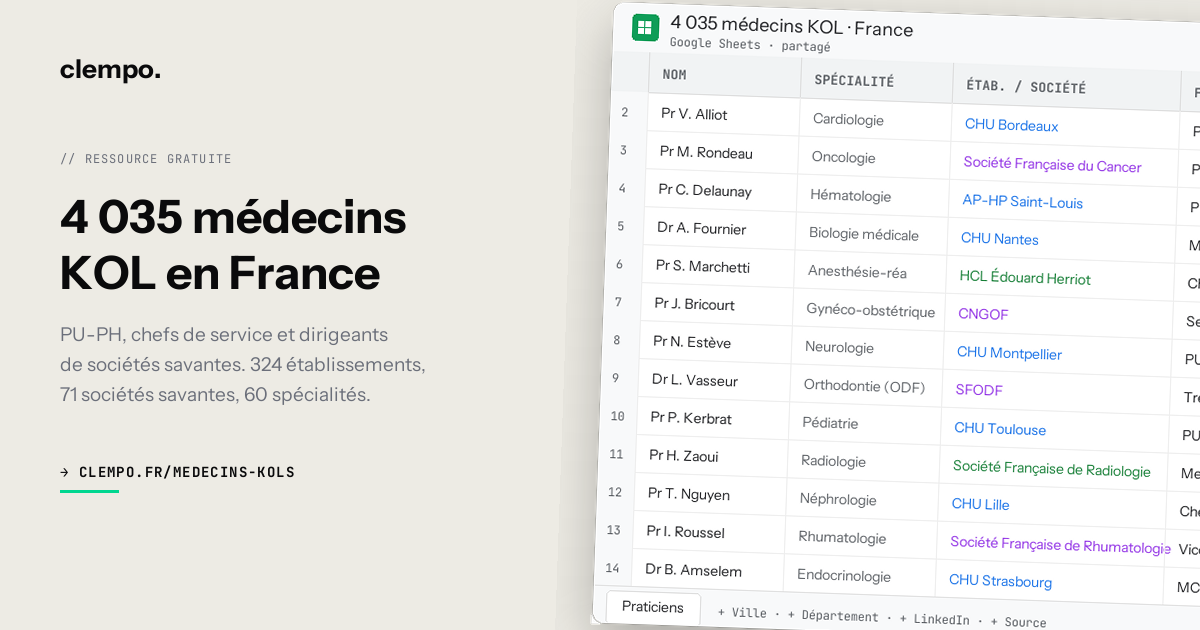
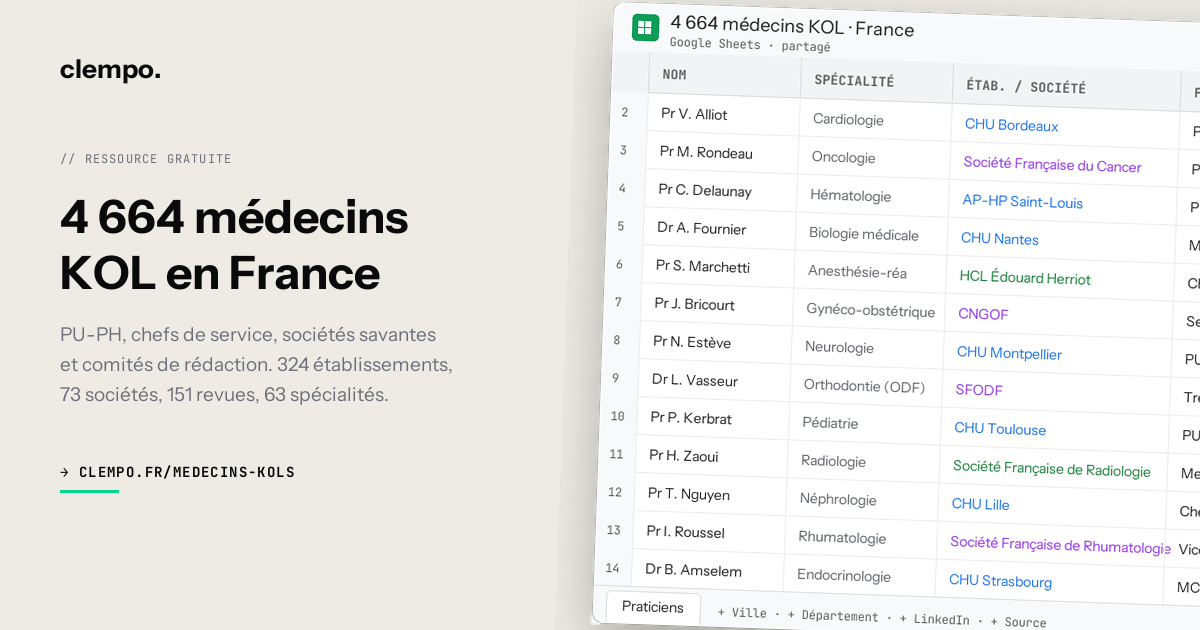
feat(medecins-kols): 3e source, les comités de rédaction des revues médicales
La base passe de 4 035 à 4 664 praticiens : 769 membres de comités de
rédaction relevés sur 151 revues (EM-Consulte, John Libbey Eurotext), dont
140 déjà présents et enrichis sur leur ligne existante.

- nouvelle colonne « Revue médicale » dans le Sheet, reflétée dans la page
- « profils doubles » devient « profils multi-sources » : 365 praticiens
  dans au moins deux sources, 19 dans les trois
- chiffres recalculés depuis le Sheet : 73 sociétés, 151 revues,
  63 spécialités, 3 475 LinkedIn (75 %), top 10 des spécialités
- le compte du titre de l'aperçu Sheet vient désormais de la constante
- visuels LinkedIn et OG régénérés

diff --git a/src/pages/MedecinsKols.tsx b/src/pages/MedecinsKols.tsx
@@ -1,5 +1,5 @@
 import { Link } from 'react-router-dom'
-import { Linkedin, Building2, MapPin, Stethoscope, Landmark, BadgeCheck, Layers, GitMerge } from 'lucide-react'
+import { Linkedin, Building2, MapPin, Stethoscope, Landmark, BadgeCheck, Layers, GitMerge, BookOpen } from 'lucide-react'
 import SEO from '../components/SEO'
 import MedecinsKolsForm, { MedecinsKolsNetlifyRegistration } from '../components/MedecinsKolsForm'
 import MedecinsKolsSheetPreview from '../components/MedecinsKolsSheetPreview'
@@ -9,11 +9,15 @@ import {
   MEDECINS_KOLS_COUNT,
   MEDECINS_KOLS_CHU,
   MEDECINS_KOLS_SAVANTES,
-  MEDECINS_KOLS_DOUBLES,
+  MEDECINS_KOLS_REVUES_MEMBRES,
+  MEDECINS_KOLS_MULTI,
+  MEDECINS_KOLS_TRIPLES,
   MEDECINS_KOLS_ETABS,
   MEDECINS_KOLS_SOCIETES,
+  MEDECINS_KOLS_REVUES,
   MEDECINS_KOLS_SPECIALITES,
   MEDECINS_KOLS_LINKEDIN,
+  MEDECINS_KOLS_LINKEDIN_PCT,
 } from '../lib/medecins-kols'
 import { bookingUrl } from '../lib/cta'
 
@@ -28,13 +32,13 @@ const SRC = 'medecins-kols'
 
 const fr = (n: number) => n.toLocaleString('fr-FR')
 
-const TITLE = `${fr(MEDECINS_KOLS_COUNT)} KOL santé · PU-PH, chefs de service & sociétés savantes | Clempo`
-const META = `Base de ${fr(MEDECINS_KOLS_COUNT)} médecins KOL français : PU-PH, MCU-PH, chefs de service de ${fr(MEDECINS_KOLS_ETABS)} établissements et dirigeants de ${MEDECINS_KOLS_SOCIETES} sociétés savantes. Spécialité, établissement, fonction et LinkedIn. Téléchargement gratuit.`
+const TITLE = `${fr(MEDECINS_KOLS_COUNT)} KOL santé · PU-PH, sociétés savantes & revues médicales | Clempo`
+const META = `Base de ${fr(MEDECINS_KOLS_COUNT)} médecins KOL français : PU-PH, MCU-PH, chefs de service de ${fr(MEDECINS_KOLS_ETABS)} établissements, dirigeants de ${MEDECINS_KOLS_SOCIETES} sociétés savantes et comités de rédaction de ${MEDECINS_KOLS_REVUES} revues médicales. Spécialité, établissement, fonction et LinkedIn. Téléchargement gratuit.`
 
 const JSON_LD = {
   '@context': 'https://schema.org',
   '@type': 'Dataset',
-  'name': 'Médecins KOL (leaders d’opinion) — CHU & sociétés savantes, France',
+  'name': 'Médecins KOL (leaders d’opinion) — CHU, sociétés savantes & revues médicales, France',
   'description': META,
   'creator': {
     '@type': 'Person',
@@ -48,6 +52,7 @@ const JSON_LD = {
     'PU-PH',
     'chefs de service CHU',
     'sociétés savantes',
+    'comité de rédaction revue médicale',
     'advisory board médical',
   ],
   'spatialCoverage': { '@type': 'Country', 'name': 'France' },
@@ -60,27 +65,29 @@ const JSON_LD = {
   },
   'variableMeasured': [
     'Titre', 'Nom', 'Prénom', 'Spécialité médicale', 'Service / intitulé d\'origine',
-    'Établissement', 'Société savante', 'Fonction', 'Ville', 'Département', 'Lien LinkedIn', 'Sources',
+    'Établissement', 'Société savante', 'Revue médicale', 'Fonction', 'Ville', 'Département',
+    'Lien LinkedIn', 'Sources',
   ],
 }
 
-/** Top spécialités du fichier (nomenclature DES, 60 spécialités au total). */
+/** Top spécialités du fichier (nomenclature DES, 63 spécialités au total). */
 const SPECIALITES = [
-  { label: 'Biologie médicale', count: 298 },
-  { label: 'Hématologie', count: 186 },
-  { label: 'Cardiologie', count: 178 },
-  { label: 'Gynécologie-obstétrique', count: 163 },
-  { label: 'Pédiatrie', count: 161 },
+  { label: 'Biologie médicale', count: 305 },
+  { label: 'Hématologie', count: 203 },
+  { label: 'Cardiologie', count: 188 },
+  { label: 'Radiologie et imagerie médicale', count: 178 },
+  { label: 'Oncologie', count: 176 },
+  { label: 'Pédiatrie', count: 171 },
+  { label: 'Gynécologie-obstétrique', count: 169 },
+  { label: 'Maladies infectieuses et tropicales', count: 161 },
+  { label: 'Endocrinologie-diabétologie-nutrition', count: 157 },
   { label: 'Chirurgie viscérale et digestive', count: 154 },
-  { label: 'Endocrinologie-diabétologie-nutrition', count: 135 },
-  { label: 'Anesthésie-réanimation', count: 134 },
-  { label: 'Radiologie et imagerie médicale', count: 134 },
-  { label: 'Oncologie', count: 125 },
 ]
 
 const FONCTIONS = [
   'PU-PH', 'MCU-PH', 'Chef de service', 'Chef de pôle', 'Président',
-  'Vice-Président', 'Secrétaire Général', 'Trésorier', 'Membre du CA', 'Référent',
+  'Vice-Président', 'Secrétaire Général', 'Trésorier', 'Membre du CA',
+  'Rédacteur en chef', 'Comité de rédaction',
 ]
 
 const USECASES = [
@@ -97,6 +104,10 @@ const USECASES = [
     text: `Les ${MEDECINS_KOLS_SOCIETES} sociétés savantes couvertes sont celles qui organisent les congrès de spécialité. Vous savez à qui parler du programme scientifique avant que le call for papers ne sorte.`,
   },
   {
+    title: 'Viser les comités de rédaction',
+    text: `Les membres des comités de ${MEDECINS_KOLS_REVUES} revues médicales décident de ce qui se publie dans leur spécialité. C'est le levier le plus direct pour faire exister une donnée clinique auprès des prescripteurs.`,
+  },
+  {
     title: 'Recruter des investigateurs',
     text: "Filtrez par département et par service pour cibler les centres capables de porter votre étude clinique — le chef de service est nommé, avec son intitulé de service d'origine.",
   },
@@ -105,11 +116,11 @@ const USECASES = [
 const FAQ = [
   {
     q: "D'où viennent ces données ?",
-    a: "Deux sources publiques, fusionnées et dédoublonnées : l'annuaire de la Fédération Hospitalière de France (relevé en août 2026) pour les PU-PH, MCU-PH et chefs de service des CHU et CLCC ; les pages « bureau » et « conseil d'administration » des sites officiels des sociétés savantes pour leurs dirigeants.",
+    a: `Trois sources publiques, fusionnées et dédoublonnées : l'annuaire de la Fédération Hospitalière de France (relevé en août 2026) pour les PU-PH, MCU-PH et chefs de service des CHU et CLCC ; les pages « bureau » et « conseil d'administration » des sites officiels des ${MEDECINS_KOLS_SOCIETES} sociétés savantes ; les ours des ${MEDECINS_KOLS_REVUES} revues médicales françaises qui publient leur comité de rédaction, pour leurs rédacteurs en chef et membres de comité.`,
   },
   {
-    q: "Que veut dire « profil double » ?",
-    a: `${fr(MEDECINS_KOLS_DOUBLES)} praticiens sont à la fois hospitalo-universitaires et dirigeants d'une société savante. Ce sont statistiquement les profils les plus influents du fichier. Ils apparaissent sur une seule ligne, avec les deux colonnes remplies — filtrez la colonne « Sources » sur « CHU + Société savante » pour les isoler.`,
+    q: "Que veut dire « profil multi-sources » ?",
+    a: `${fr(MEDECINS_KOLS_MULTI)} praticiens apparaissent dans au moins deux des trois sources, et ${MEDECINS_KOLS_TRIPLES} dans les trois à la fois : hospitalo-universitaire, dirigeant d'une société savante et membre d'un comité de rédaction. Ce sont statistiquement les profils les plus influents du fichier. Ils occupent une seule ligne, toutes colonnes remplies — filtrez la colonne « Sources » sur celles qui contiennent un « + » pour les isoler.`,
   },
   {
     q: "Est-ce que la couverture est exhaustive ?",
@@ -121,11 +132,11 @@ const FAQ = [
   },
   {
     q: "Y a-t-il des emails ?",
-    a: `Non — volontairement. Le fichier donne le nom, la spécialité, l'établissement, la fonction et le profil LinkedIn (${fr(MEDECINS_KOLS_LINKEDIN)} profils rattachés, soit 76 % des lignes). L'approche d'un leader d'opinion se fait par LinkedIn, par un congrès ou par une introduction, pas par une adresse trouvée dans un fichier.`,
+    a: `Non — volontairement. Le fichier donne le nom, la spécialité, l'établissement, la fonction et le profil LinkedIn (${fr(MEDECINS_KOLS_LINKEDIN)} profils rattachés, soit ${MEDECINS_KOLS_LINKEDIN_PCT} % des lignes). L'approche d'un leader d'opinion se fait par LinkedIn, par un congrès ou par une introduction, pas par une adresse trouvée dans un fichier.`,
   },
   {
     q: "Quel format est livré ?",
-    a: `Un Google Sheet partagé en lecture (${fr(MEDECINS_KOLS_COUNT)} lignes, 12 colonnes, un onglet couverture et un onglet base). Dupliquez-le dans votre Drive pour le filtrer librement, ou exportez-le en CSV/XLSX.`,
+    a: `Un Google Sheet partagé en lecture (${fr(MEDECINS_KOLS_COUNT)} lignes, 13 colonnes, un onglet couverture et un onglet base). Dupliquez-le dans votre Drive pour le filtrer librement, ou exportez-le en CSV/XLSX.`,
   },
   {
     q: "Pourquoi gratuit ?",
@@ -182,7 +193,7 @@ export default function MedecinsKols() {
                   color: 'rgba(255,255,255,0.7)',
                   padding: '0.35rem 0',
                 }}>
-                  France 🇫🇷 · {fr(MEDECINS_KOLS_ETABS)} établissements · {MEDECINS_KOLS_SOCIETES} sociétés savantes
+                  France 🇫🇷 · {fr(MEDECINS_KOLS_ETABS)} établissements · {MEDECINS_KOLS_SOCIETES} sociétés savantes · {MEDECINS_KOLS_REVUES} revues
                 </span>
               </div>
 
@@ -230,12 +241,13 @@ export default function MedecinsKols() {
               gap: '1.5rem',
             }}>
               {[
-                { n: fr(MEDECINS_KOLS_COUNT), l: 'Médecins KOL', sub: 'PU-PH, chefs de service, dirigeants de sociétés savantes' },
+                { n: fr(MEDECINS_KOLS_COUNT), l: 'Médecins KOL', sub: 'PU-PH, chefs de service, sociétés savantes, comités de rédaction' },
                 { n: fr(MEDECINS_KOLS_CHU), l: 'Hospitalo-universitaires', sub: `CHU et CLCC — ${fr(MEDECINS_KOLS_ETABS)} établissements` },
                 { n: fr(MEDECINS_KOLS_SAVANTES), l: 'Dirigeants de société savante', sub: `${MEDECINS_KOLS_SOCIETES} sociétés couvertes` },
-                { n: fr(MEDECINS_KOLS_DOUBLES), l: 'Profils doubles', sub: 'CHU et société savante à la fois' },
+                { n: fr(MEDECINS_KOLS_REVUES_MEMBRES), l: 'Comités de rédaction', sub: `${MEDECINS_KOLS_REVUES} revues médicales` },
+                { n: fr(MEDECINS_KOLS_MULTI), l: 'Profils multi-sources', sub: `Dont ${MEDECINS_KOLS_TRIPLES} présents dans les trois` },
                 { n: String(MEDECINS_KOLS_SPECIALITES), l: 'Spécialités', sub: 'Nomenclature DES + odontologie' },
-                { n: fr(MEDECINS_KOLS_LINKEDIN), l: 'Profils LinkedIn', sub: '76 % des lignes' },
+                { n: fr(MEDECINS_KOLS_LINKEDIN), l: 'Profils LinkedIn', sub: `${MEDECINS_KOLS_LINKEDIN_PCT} % des lignes` },
               ].map((s, i) => (
                 <div key={i}>
                   <p style={{
@@ -259,7 +271,7 @@ export default function MedecinsKols() {
         {/* ── COLONNES DISPONIBLES ── */}
         <section style={{ padding: 'clamp(4rem, 7vw, 6rem) 4vw', maxWidth: '1180px', margin: '0 auto' }}>
           <p style={{ fontFamily: "'JetBrains Mono', monospace", fontSize: '0.72rem', letterSpacing: '0.1em', textTransform: 'uppercase', color: SIGNAL, marginBottom: '1rem', fontWeight: 500 }}>
-            // 12 colonnes par ligne
+            // 13 colonnes par ligne
           </p>
           <h2 style={{
             fontFamily: 'var(--font-serif)',
@@ -281,7 +293,8 @@ export default function MedecinsKols() {
               { icon: Layers,      t: "Service d'origine",     s: "L'intitulé brut du service, plus fin que la spécialité" },
               { icon: Building2,   t: 'Établissement',         s: `CHU, CHRU, CLCC — ${fr(MEDECINS_KOLS_ETABS)} établissements nommés` },
               { icon: Landmark,    t: 'Société savante',       s: `${MEDECINS_KOLS_SOCIETES} sociétés, collèges et académies` },
-              { icon: BadgeCheck,  t: 'Fonction',              s: 'PU-PH, MCU-PH, chef de service, président, membre du CA…' },
+              { icon: BookOpen,    t: 'Revue médicale',        s: `${MEDECINS_KOLS_REVUES} revues — rédacteurs en chef et comités` },
+              { icon: BadgeCheck,  t: 'Fonction',              s: 'PU-PH, MCU-PH, chef de service, président, rédacteur en chef…' },
               { icon: MapPin,      t: 'Ville et département',  s: 'Pour cibler un territoire ou un centre investigateur' },
               { icon: Linkedin,    t: 'Profil LinkedIn',       s: `${fr(MEDECINS_KOLS_LINKEDIN)} URL vérifiées sur le nom de famille` },
             ].map((c, i) => {
@@ -333,7 +346,7 @@ export default function MedecinsKols() {
                   ))}
                 </ul>
                 <p style={{ marginTop: '1.25rem', fontSize: '0.85rem', color: MUTED, lineHeight: 1.6 }}>
-                  Et 50 autres, dont les six sous-spécialités odontologiques (ODF, endodontie,
+                  Et {MEDECINS_KOLS_SPECIALITES - SPECIALITES.length} autres, dont les six sous-spécialités odontologiques (ODF, endodontie,
                   parodontologie, chirurgie orale, odontologie pédiatrique, médecine bucco-dentaire).
                 </p>
               </div>
@@ -355,8 +368,8 @@ export default function MedecinsKols() {
                   ))}
                 </div>
                 <p style={{ marginTop: '1.5rem', fontSize: '0.85rem', color: MUTED, lineHeight: 1.6 }}>
-                  300+ libellés au total : un PU-PH qui dirige aussi un pôle et siège au bureau
-                  d'une société savante porte les trois mentions sur la même ligne.
+                  300+ libellés au total : un PU-PH qui dirige aussi un pôle, siège au bureau d'une
+                  société savante et signe l'édito d'une revue porte toutes ces mentions sur la même ligne.
                 </p>
 
                 <div style={{
@@ -369,11 +382,13 @@ export default function MedecinsKols() {
                 }}>
                   <GitMerge size={20} color={SIGNAL} strokeWidth={1.7} />
                   <p style={{ fontFamily: "'Inter', sans-serif", fontSize: '1rem', fontWeight: 600, color: TEXT, margin: 0 }}>
-                    {fr(MEDECINS_KOLS_DOUBLES)} profils à double casquette
+                    {fr(MEDECINS_KOLS_MULTI)} profils multi-sources
                   </p>
                   <p style={{ fontSize: '0.88rem', color: MUTED, margin: 0, lineHeight: 1.6 }}>
-                    Hospitalo-universitaires <em>et</em> dirigeants d'une société savante. Une seule
-                    ligne, les deux colonnes remplies. C'est par eux qu'on commence une cartographie KOL.
+                    Hospitalo-universitaires, dirigeants d'une société savante <em>ou</em> membres d'un
+                    comité de rédaction — présents dans au moins deux de ces rôles, et {MEDECINS_KOLS_TRIPLES} dans
+                    les trois à la fois. Une seule ligne, toutes les colonnes remplies. C'est par eux
+                    qu'on commence une cartographie KOL.
                   </p>
                 </div>
               </div>
@@ -385,7 +400,7 @@ export default function MedecinsKols() {
         <section style={{ padding: 'clamp(4rem, 7vw, 6rem) 4vw', maxWidth: '1180px', margin: '0 auto' }}>
           <div>
             <p style={{ fontFamily: "'JetBrains Mono', monospace", fontSize: '0.72rem', letterSpacing: '0.1em', textTransform: 'uppercase', color: SIGNAL, marginBottom: '1rem', fontWeight: 500 }}>
-              // 4 façons de l'utiliser
+              // 5 façons de l'utiliser
             </p>
             <h2 style={{
               fontFamily: 'var(--font-serif)',

diff --git a/src/lib/medecins-kols.ts b/src/lib/medecins-kols.ts
@@ -1,19 +1,26 @@
 export const MEDECINS_KOLS_SHEET_URL =
   'https://docs.google.com/spreadsheets/d/1Ov4vsRPg-V6NbSQ7Xe0T5gzhPyM3ZyoZiD7M4D3vT38/edit?usp=sharing'
 
-export const MEDECINS_KOLS_COUNT = 4035
-/** Lignes issues de l'annuaire FHF (CHU/CLCC), profils doubles inclus. */
+export const MEDECINS_KOLS_COUNT = 4664
+/** Lignes issues de l'annuaire FHF (CHU/CLCC), profils multi-sources inclus. */
 export const MEDECINS_KOLS_CHU = 3131
-/** Lignes rattachées à une société savante, profils doubles inclus. */
+/** Lignes rattachées à une société savante, profils multi-sources inclus. */
 export const MEDECINS_KOLS_SAVANTES = 1148
-/** Praticiens à la fois hospitalo-universitaires ET dirigeants d'une société savante. */
-export const MEDECINS_KOLS_DOUBLES = 244
+/** Lignes rattachées au comité de rédaction d'une revue, profils multi-sources inclus. */
+export const MEDECINS_KOLS_REVUES_MEMBRES = 769
+/** Praticiens présents dans au moins deux des trois sources. */
+export const MEDECINS_KOLS_MULTI = 365
+/** Praticiens présents dans les trois sources à la fois. */
+export const MEDECINS_KOLS_TRIPLES = 19
 export const MEDECINS_KOLS_ETABS = 324
-export const MEDECINS_KOLS_SOCIETES = 71
-export const MEDECINS_KOLS_SPECIALITES = 60
-export const MEDECINS_KOLS_LINKEDIN = 3064
+export const MEDECINS_KOLS_SOCIETES = 73
+export const MEDECINS_KOLS_REVUES = 151
+export const MEDECINS_KOLS_SPECIALITES = 63
+export const MEDECINS_KOLS_LINKEDIN = 3475
+/** Part des lignes avec un profil LinkedIn rattaché. */
+export const MEDECINS_KOLS_LINKEDIN_PCT = 75
 
 export const MEDECINS_KOLS_TITLE =
-  '4 035 médecins KOL · CHU & sociétés savantes'
+  '4 664 médecins KOL · CHU, sociétés savantes & revues'
 export const MEDECINS_KOLS_SUB =
-  "PU-PH, chefs de service et dirigeants de sociétés savantes : les leaders d'opinion de la médecine française, réunis dans une seule base. Spécialité, établissement, société savante, fonction et profil LinkedIn — de quoi construire vos advisory boards, vos campagnes KOL et vos partenariats scientifiques."
+  "PU-PH, chefs de service, dirigeants de sociétés savantes et membres des comités de rédaction : les leaders d'opinion de la médecine française, réunis dans une seule base. Spécialité, établissement, société savante, revue, fonction et profil LinkedIn — de quoi construire vos advisory boards, vos campagnes KOL et vos partenariats scientifiques."

diff --git a/src/pages/Home.tsx b/src/pages/Home.tsx
@@ -27,6 +27,7 @@ import {
   MEDECINS_KOLS_SUB,
   MEDECINS_KOLS_ETABS,
   MEDECINS_KOLS_SOCIETES,
+  MEDECINS_KOLS_REVUES,
 } from '../lib/medecins-kols'
 import { bookingUrl } from '../lib/cta'
 import Booking from './Booking'
@@ -1487,7 +1488,7 @@ export default function Home() {
                   color: 'var(--steel)',
                   padding: '0.35rem 0',
                 }}>
-                  France 🇫🇷 · {MEDECINS_KOLS_ETABS} établissements · {MEDECINS_KOLS_SOCIETES} sociétés savantes
+                  France 🇫🇷 · {MEDECINS_KOLS_ETABS} établissements · {MEDECINS_KOLS_SOCIETES} sociétés · {MEDECINS_KOLS_REVUES} revues
                 </span>
               </div>
 

diff --git a/src/components/MedecinsKolsSheetPreview.tsx b/src/components/MedecinsKolsSheetPreview.tsx
@@ -1,3 +1,4 @@
+import { MEDECINS_KOLS_COUNT } from '../lib/medecins-kols'
 /**
  * Decorative mockup of a Google Sheet preview to entice download.
  * Uses fake-but-plausible data — actual practitioners are in the linked GSheet.
@@ -80,7 +81,7 @@ export default function MedecinsKolsSheetPreview() {
             overflow: 'hidden',
             textOverflow: 'ellipsis',
           }}>
-            4 035 médecins KOL · France
+            {MEDECINS_KOLS_COUNT.toLocaleString('fr-FR')} médecins KOL · France
           </span>
           <span style={{ fontSize: '0.65rem', color: '#5f6368' }}>
             Google Sheets · partagé

diff --git a/netlify/functions/_email-templates.ts b/netlify/functions/_email-templates.ts
@@ -383,7 +383,7 @@ export const RESOURCE_CATALOG: ResourceCatalogEntry[] = [
     id: 'medecins-kols',
     slugs: s => s === 'medecins-kols',
     label: {
-      FR: 'La base des médecins KOL (PU-PH, chefs de service, sociétés savantes)',
+      FR: 'La base des médecins KOL (PU-PH, chefs de service, sociétés savantes, revues)',
       EN: 'The medical KOL database (professors, department heads, learned societies)',
     },
     url: `${SITE_URL}/medecins-kols`,

diff --git a/netlify/functions/submission-created.ts b/netlify/functions/submission-created.ts
@@ -308,7 +308,7 @@ async function handleMedecinsKols(d: {
       language: lang,
       resourceLabel: lang === 'EN'
         ? 'the French medical KOL database (university hospitals & learned societies)'
-        : 'la base des médecins KOL (CHU & sociétés savantes)',
+        : 'la base des médecins KOL (CHU, sociétés savantes & revues)',
       links: [{ label: lang === 'EN' ? 'Open the database' : 'Ouvrir la base', url: MEDECINS_KOLS_SHEET_URL }],
     })
   }

diff --git a/scripts/render_linkedin_medecins_kols.py b/scripts/render_linkedin_medecins_kols.py
@@ -136,7 +136,7 @@ def render_sheet_mockup(width, rows_count=16):
     fn_font = font(F_SANS, 18)
     sub_font = font(F_MONO, 12)
     d.text((icon_x + icon_size + 12, y0 + 7),
-           "4 035 médecins KOL · France",
+           "4 664 médecins KOL · France",
            font=fn_font, fill=(32, 33, 36, 255))
     d.text((icon_x + icon_size + 12, y0 + 30),
            "Google Sheets · partagé",
@@ -279,14 +279,14 @@ def render_og() -> Image.Image:
 
     # Titre : Instrument Serif n'est pas dans le pack, on reste sur le sans bold
     title_font = font(F_SANS_BOLD, 46)
-    for i, line in enumerate(["4 035 médecins", "KOL en France"]):
+    for i, line in enumerate(["4 664 médecins", "KOL en France"]):
         d.text((x, 188 + i * 56), line, font=title_font, fill=INK)
 
     sub_font = font(F_SANS, 19)
     for i, line in enumerate([
-        "PU-PH, chefs de service et dirigeants",
-        "de sociétés savantes. 324 établissements,",
-        "71 sociétés savantes, 60 spécialités.",
+        "PU-PH, chefs de service, sociétés savantes",
+        "et comités de rédaction. 324 établissements,",
+        "73 sociétés, 151 revues, 63 spécialités.",
     ]):
         d.text((x, 322 + i * 30), line, font=sub_font, fill=STEEL)
 
